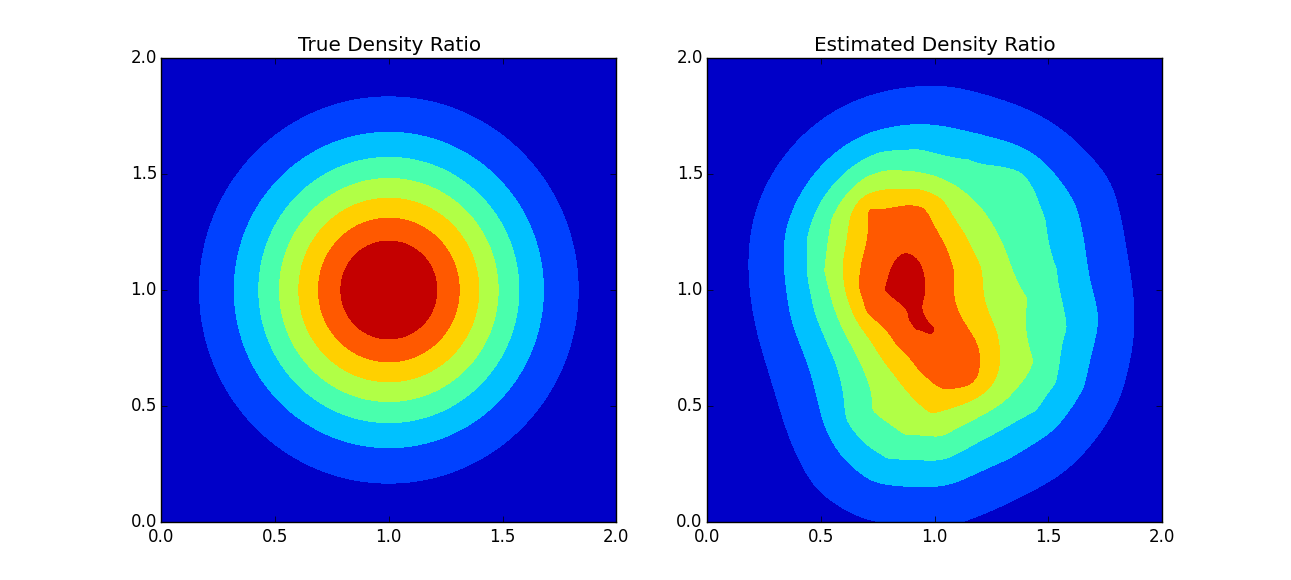
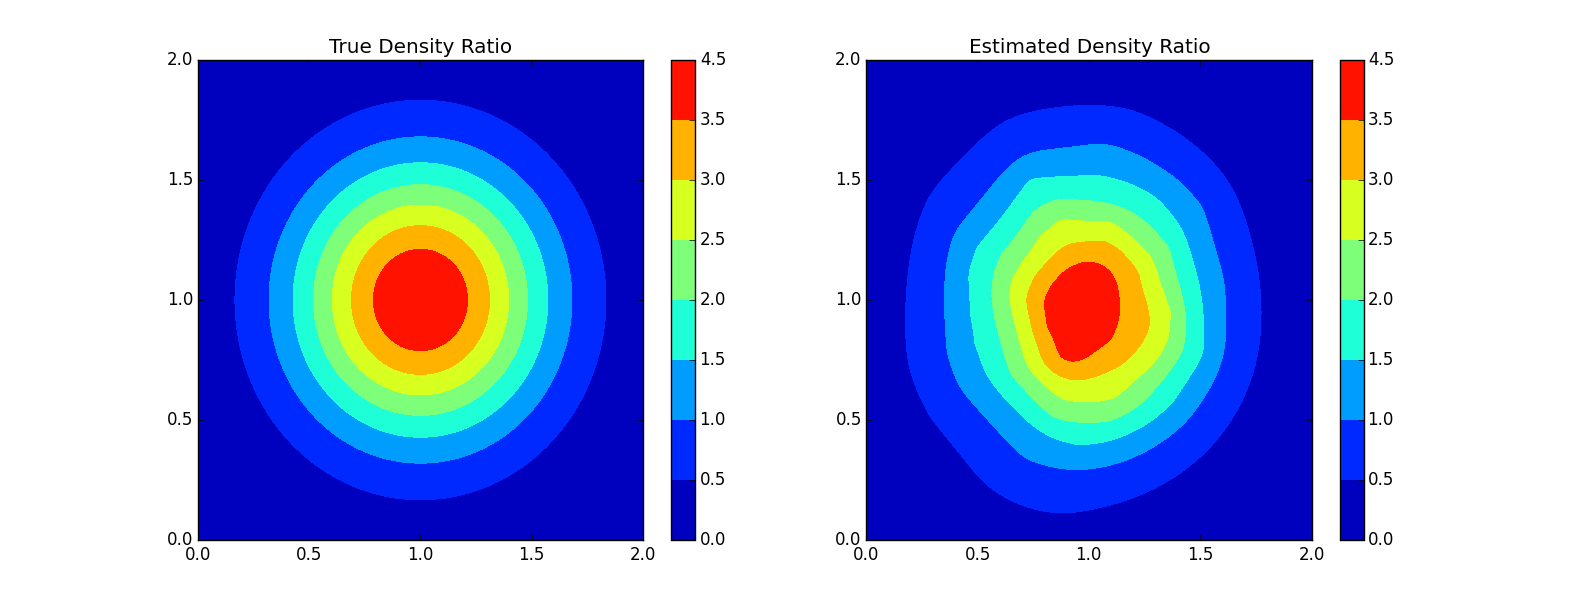
fix

diff --git a/README.md b/README.md
@@ -16,9 +16,9 @@ For example,
 
 
 ```python
+from numpy import random
 from scipy.stats import norm
 from densratio import densratio
-from numpy import random
 
 random.seed(1)
 x = norm.rvs(size = 200, loc = 1, scale = 1./8)
@@ -104,6 +104,8 @@ In this case, `result.compute_density_ratio()` can compute estimated density rat
 
 
 ```r
+from matplotlib import pyplot as plt
+
 plt.plot(y, result.compute_density_ratio(y), "o")
 plt.xlabel("x")
 plt.ylabel("Density Ratio")
@@ -173,13 +175,13 @@ For example,
 
 
 ```python
-from numpy import random, meshgrid, linspace, array, matrix, mgridad
+from numpy import random
 from scipy.stats import multivariate_normal
 from densratio import densratio
 
 random.seed(3)
-x = multivariate_normal.rvs(size = 300, mean = [1, 1], cov = [[1./8, 0], [0, 1./8]])
-y = multivariate_normal.rvs(size = 300, mean = [1, 1], cov = [[1./2, 0], [0, 1./2]])
+x = multivariate_normal.rvs(size = 3000, mean = [1, 1], cov = [[1./8, 0], [0, 1./8]])
+y = multivariate_normal.rvs(size = 3000, mean = [1, 1], cov = [[1./2, 0], [0, 1./2]])
 result = densratio(x, y)
 print(result)
 ```
@@ -192,12 +194,12 @@ print(result)
 #>   Kernel type: Gaussian RBF
 #>   Number of kernels: 100
 #>   Bandwidth(sigma): 0.316227766017
-#>   Centers: array([[ 0.98982274, 0.47888252],..
+#>   Centers: array([[ 1.06481062, 1.09768368],..
 #> 
 #> Kernel Weights(alpha):
-#>   array([ 0.15977556, 0.19826562, 0.23464401, 0.15282181, 0.13344328,..
+#>   array([ 0.19009526, 0.18680918, 0.20764146, 0.19914001, 0.21313236,..
 #> 
-#> Regularization Parameter(lambda): 0.1
+#> Regularization Parameter(lambda): 0.0316227766017
 #> 
 #> The Function to Estimate Density Ratio:
 #>   compute_density_ratio(x)
@@ -208,6 +210,7 @@ Also in this case, we can compare the true density ratio with the estimated dens
 
 ```python
 from matplotlib import pyplot as plt
+from numpy import linspace, dstack, meshgrid
 
 def true_density_ratio(x):
     return multivariate_normal.pdf(x, [1., 1.], [[1./8, 0], [0, 1./8]]) / \
@@ -216,14 +219,17 @@ def true_density_ratio(x):
 def estimated_density_ratio(x):
     return result.compute_density_ratio(x)
 
-range_ = linspace(0, 2, 300)
+range_ = linspace(0, 2, 200)
 grid = dstack(meshgrid(range_, range_))
+levels = [0, 0.5, 1, 1.5, 2, 2.5, 3, 3.5, 4.5]
 
 plt.subplot(1, 2, 1)
-plt.contourf(range_, range_, true_density_ratio(grid))
+plt.contourf(range_, range_, true_density_ratio(grid), levels)
+plt.colorbar()
 plt.title("True Density Ratio")
 plt.subplot(1, 2, 2)
-plt.contourf(range_, range_, map(estimated_density_ratio, grid))
+plt.contourf(range_, range_, map(estimated_density_ratio, grid), levels)
+plt.colorbar()
 plt.title("Estimated Density Ratio")
 plt.show()
 ```
